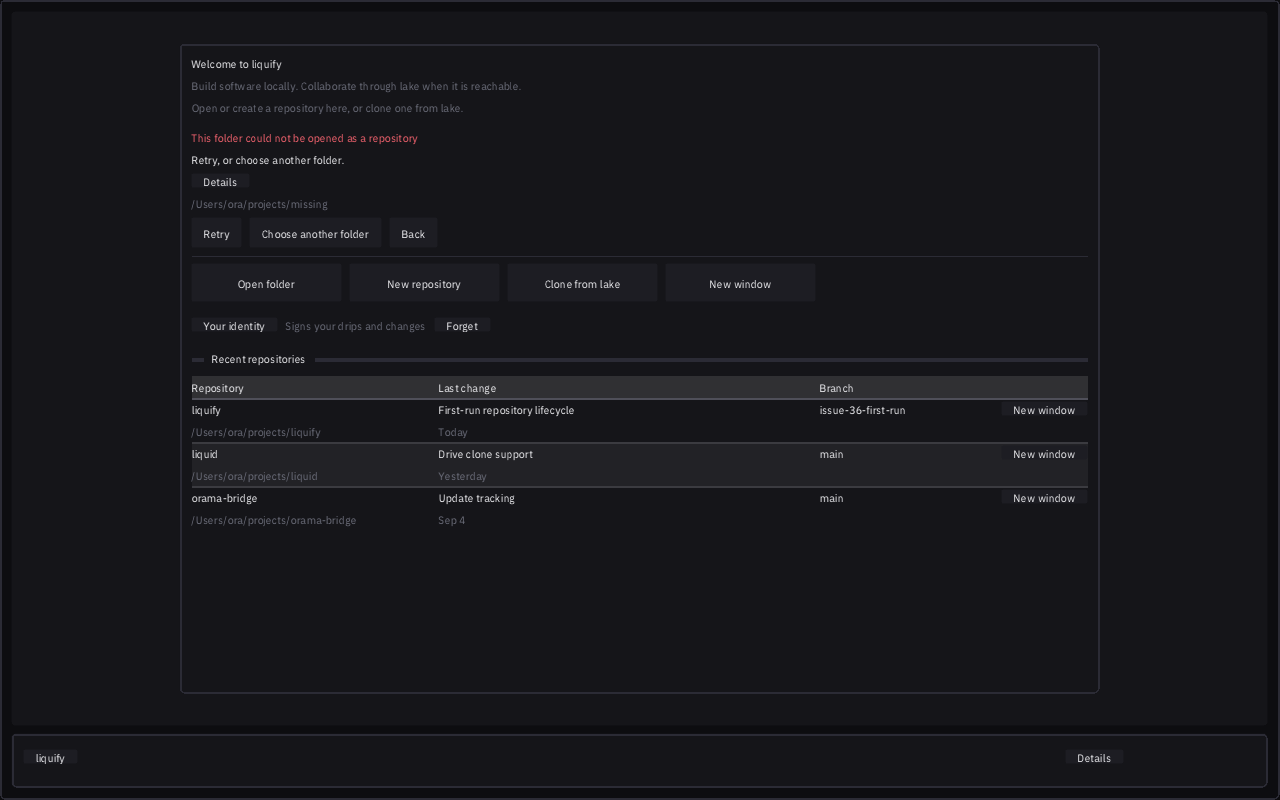
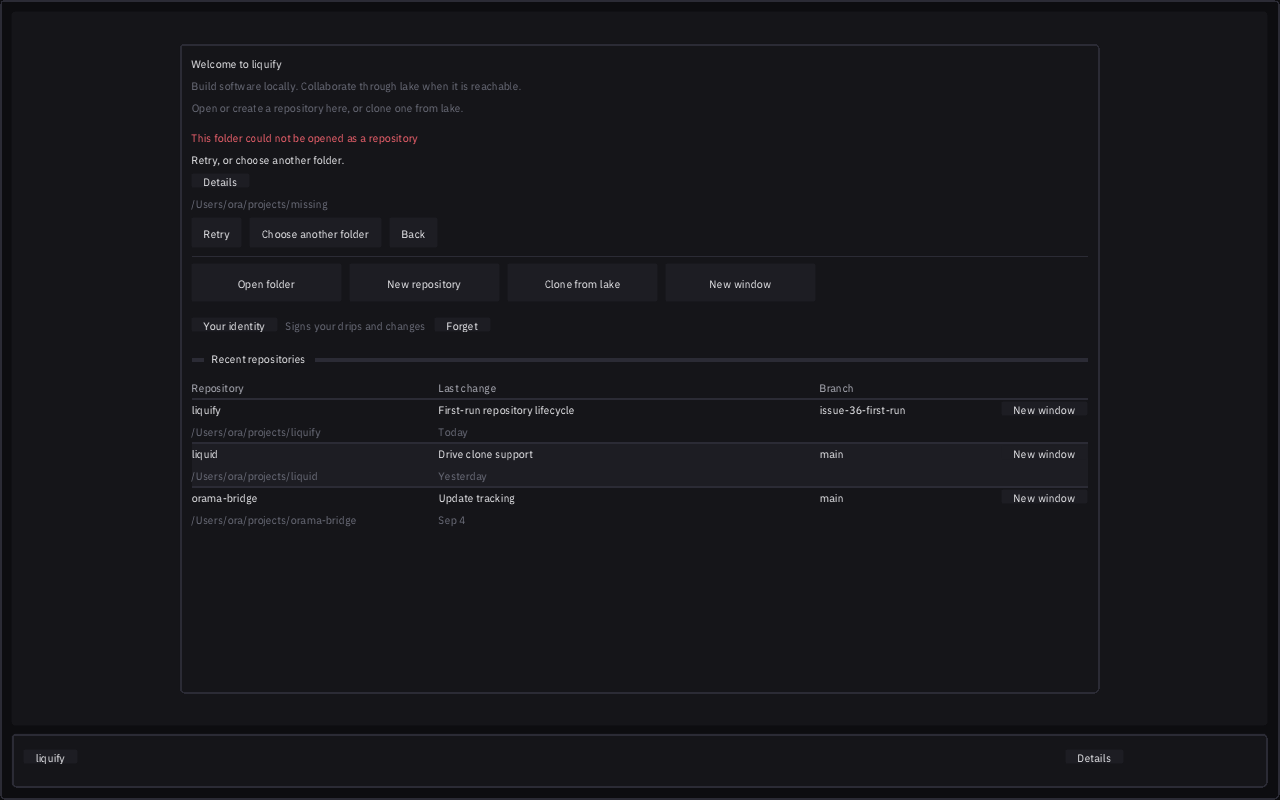
Table headers in lake's style: muted ink on the surface role, with a hairline
The command palette and Recent repositories headers drew as a near-black bar with dark labels.
They now use the surface role behind muted-ink labels with a hairline under the row, and rows
alternate between transparent and the layer role. A screenshot property test fails if a header's
rendered label contrast falls below WCAG AA in either theme.

Changed region(s): [[0.125, 0.4688, 0.875, 0.5]]

diff --git a/src/app.cpp b/src/app.cpp
@@ -815,6 +815,24 @@ auto push_outcome_name(liquid::sync_ref_outcome_kind outcome)
   return "unknown";
 }
 
+// A table's header row in lake's style: muted ink on the surface role, with a hairline under
+// it. Records the row's rectangle for the contrast property test.
+void table_headers(const design::Palette &palette, UiFrameLayout &layout,
+                   std::string_view id) {
+  ImGui::PushStyleColor(ImGuiCol_Text, imgui_color(palette.text_secondary));
+  ImGui::TableHeadersRow();
+  ImGui::PopStyleColor();
+  const auto top_left = ImGui::GetItemRectMin();
+  const auto bottom = ImGui::GetItemRectMax().y;
+  auto *table = ImGui::GetCurrentTable();
+  const auto left = table != nullptr ? table->OuterRect.Min.x : top_left.x;
+  const auto right = table != nullptr ? table->OuterRect.Max.x : ImGui::GetItemRectMax().x;
+  ImGui::GetWindowDrawList()->AddLine(ImVec2(left, bottom), ImVec2(right, bottom),
+                                      packed_color(palette.border_subtle), 1.0F);
+  layout.controls[std::string(id) + "/header"] =
+      InputRectangle{left, top_left.y, right - left, bottom - top_left.y};
+}
+
 auto graph_query_failure(const EditorGraphSnapshot &snapshot) -> liquid::error {
   return snapshot.query_failure.value_or(
       liquid::error{liquid::errc::internal, snapshot.query_error, ""});
@@ -2330,6 +2348,13 @@ void App::apply_theme() {
   colors[ImGuiCol_ChildBg] = imgui_color(palette.surface);
   colors[ImGuiCol_PopupBg] = imgui_color(palette.overlay);
   colors[ImGuiCol_Border] = imgui_color(palette.border_subtle);
+  // Compact tables with sticky headers, as lake's kit draws them: the header sits on the
+  // surface role, its labels in the muted ink role, with a hairline under it (liquify#109).
+  colors[ImGuiCol_TableHeaderBg] = imgui_color(palette.surface);
+  colors[ImGuiCol_TableBorderStrong] = imgui_color(palette.border_subtle);
+  colors[ImGuiCol_TableBorderLight] = imgui_color(palette.border_subtle);
+  colors[ImGuiCol_TableRowBg] = ImVec4(0.0F, 0.0F, 0.0F, 0.0F);
+  colors[ImGuiCol_TableRowBgAlt] = imgui_color(palette.layer);
   colors[ImGuiCol_BorderShadow] = {0.0F, 0.0F, 0.0F, 0.0F};
   colors[ImGuiCol_FrameBg] = imgui_color(palette.layer);
   colors[ImGuiCol_FrameBgHovered] = imgui_color(palette.layer_hover);
@@ -4843,7 +4868,8 @@ void App::draw_command_palette() {
                             0.60F);
     ImGui::TableSetupColumn("Group", ImGuiTableColumnFlags_WidthStretch, 0.20F);
     ImGui::TableSetupColumn("Key", ImGuiTableColumnFlags_WidthStretch, 0.20F);
-    ImGui::TableHeadersRow();
+    table_headers(effective_palette(applied_dark_theme_, applied_high_contrast_),
+                  frame_layout_, "palette");
     for (const auto &match : matches) {
       const auto *definition = commands_->find(match.name);
       if (definition == nullptr) {
@@ -7483,7 +7509,8 @@ void App::draw_welcome() {
                             2.2F);
     ImGui::TableSetupColumn("Branch", ImGuiTableColumnFlags_WidthStretch, 1.0F);
     ImGui::TableSetupColumn("", ImGuiTableColumnFlags_WidthFixed, 86.0F);
-    ImGui::TableHeadersRow();
+    table_headers(effective_palette(applied_dark_theme_, applied_high_contrast_),
+                  frame_layout_, "recent-repositories");
     for (const auto &recent : first_run_.recent()) {
       ImGui::PushID(recent.path.string().c_str());
       ImGui::TableNextRow();

diff --git a/tests/test_screenshot.cpp b/tests/test_screenshot.cpp
@@ -1,4 +1,8 @@
+#include <algorithm>
+#include <array>
+#include <cmath>
 #include <filesystem>
+#include <map>
 #include <string>
 #include <string_view>
 #include <utility>
@@ -160,6 +164,73 @@ TEST(Screenshot, AccessibilityStateShowsHighContrastFocusInBothThemes) {
                                           {15, 98, 254, 255}, 1, 1'000));
   EXPECT_TRUE(test::region_contains_color(dark, {320, 100, 950, 660},
                                           {107, 152, 255, 255}, 1, 1'000));
+}
+
+} // namespace
+} // namespace liquify
+
+namespace liquify {
+namespace {
+
+auto relative_luminance(std::uint8_t r, std::uint8_t g, std::uint8_t b) -> double {
+  const auto channel = [](std::uint8_t value) {
+    const auto c = value / 255.0;
+    return c <= 0.03928 ? c / 12.92 : std::pow((c + 0.055) / 1.055, 2.4);
+  };
+  return 0.2126 * channel(r) + 0.7152 * channel(g) + 0.0722 * channel(b);
+}
+
+auto contrast(double a, double b) -> double {
+  return (std::max(a, b) + 0.05) / (std::min(a, b) + 0.05);
+}
+
+// The header row's background is its most common colour; its ink is the pixel that differs from
+// it most. Rendered labels must read at WCAG AA (4.5:1) against the header (liquify#109).
+auto header_contrast(const ScreenshotImage &image, const InputRectangle &rect) -> double {
+  auto counts = std::map<std::uint32_t, int>{};
+  const auto x0 = static_cast<int>(std::max(rect.x, 0.0F));
+  const auto y0 = static_cast<int>(std::max(rect.y, 0.0F));
+  const auto x1 = std::min(static_cast<int>(rect.x + rect.width), static_cast<int>(image.width));
+  const auto y1 = std::min(static_cast<int>(rect.y + rect.height), static_cast<int>(image.height));
+  const auto pixel = [&](int x, int y) {
+    const auto *p = &image.rgba[(static_cast<std::size_t>(y) * image.width + x) * 4];
+    return std::array<std::uint8_t, 3>{p[0], p[1], p[2]};
+  };
+  for (int y = y0; y < y1 - 1; ++y) {
+    for (int x = x0; x < x1; ++x) {
+      const auto [r, g, b] = pixel(x, y);
+      ++counts[(static_cast<std::uint32_t>(r) << 16) | (g << 8) | b];
+    }
+  }
+  if (counts.empty()) {
+    return 0.0;
+  }
+  const auto background = std::ranges::max_element(counts, {}, [](const auto &entry) {
+                            return entry.second;
+                          })->first;
+  const auto background_luminance =
+      relative_luminance(background >> 16, (background >> 8) & 0xff, background & 0xff);
+  auto best = 1.0;
+  for (int y = y0; y < y1 - 1; ++y) {
+    for (int x = x0; x < x1; ++x) {
+      const auto [r, g, b] = pixel(x, y);
+      best = std::max(best, contrast(relative_luminance(r, g, b), background_luminance));
+    }
+  }
+  return best;
+}
+
+TEST(Screenshot, TableHeadersReadAtAAContrastInBothThemes) {
+  for (const auto &[state, control] :
+       {std::pair{"command-palette-light", "palette/header"},
+        std::pair{"command-palette-dark", "palette/header"},
+        std::pair{"welcome-light", "recent-repositories/header"},
+        std::pair{"welcome-dark", "recent-repositories/header"}}) {
+    const auto rendered = render_diagnostics(state);
+    ASSERT_TRUE(rendered.layout.controls.contains(control)) << state;
+    const auto ratio = header_contrast(rendered.image, rendered.layout.controls.at(control));
+    EXPECT_GE(ratio, 4.5) << state << " " << control;
+  }
 }
 
 } // namespace

diff --git a/tests/native_acceptance.cpp b/tests/native_acceptance.cpp
@@ -902,6 +902,23 @@ void NativeAcceptance::set_up_build(const std::filesystem::path &output) {
   capture_themes(app, output, "set-up-build-done");
 }
 
+// The command palette and the front door's Recent repositories, whose headers liquify#109
+// fixed, in the real window and both themes.
+void NativeAcceptance::table_headers(App &app, const std::filesystem::path &output) {
+  open_file(app);
+  key(app, "p", true, true);
+  require(popup("Command palette"), "palette opened");
+  require(app.frame_layout().controls.contains("palette/header"),
+          "#109: the palette draws its header row");
+  capture_themes(app, output, "palette-header");
+  key(app, "Escape");
+  app.first_run_.return_to_welcome();
+  pulse(app);
+  require(app.frame_layout().controls.contains("recent-repositories/header"),
+          "#109: the front door draws Recent repositories with its header row");
+  capture_themes(app, output, "recent-header");
+}
+
 void NativeAcceptance::wait_for_repository_operation(App &app) {
   const auto deadline =
       std::chrono::steady_clock::now() + std::chrono::seconds(60);
@@ -1080,6 +1097,8 @@ int NativeAcceptance::run(std::string_view scenario,
     tabs(app);
   } else if (scenario == "build") {
     build(app, output);
+  } else if (scenario == "table-headers") {
+    table_headers(app, output);
   } else if (scenario == "cut") {
     cut(app, output);
   } else if (scenario == "set-lake-push") {

diff --git a/tests/native_acceptance.hpp b/tests/native_acceptance.hpp
@@ -47,6 +47,7 @@ private:
   static void opened_clone_push(const std::filesystem::path &output);
   static void request_review(const std::filesystem::path &output);
   static void set_up_build(const std::filesystem::path &output);
+  static void table_headers(App &app, const std::filesystem::path &output);
   static void front_door(App &app, const std::filesystem::path &output);
   static void fill_clone(App &app, const std::string &remote,
                          const std::string &folder);

diff --git a/docs/ui/native-acceptance.md b/docs/ui/native-acceptance.md
@@ -31,6 +31,7 @@ controls, editor bounds and source ink. The driver does not add fixed sample rec
 | `request-review` | A repository with no lake shows Set lake in Review; a folder cloned from a test lake shows the teaching empty state with Request review; type, save, cut, push, click Request review, type reviewers, submit; require the review opened and the test lake holding it for the current change with those reviewers; save light and dark | Passes ([review](../editor/review.md)) |
 | `front-door-actions` | No repository; require Open folder, New repository, Clone from lake, New window and Your identity; open and cancel the clone dialog; read Your identity; New repository, type a folder, Create repository; require it open and readable by libliquid; save light and dark | Passes ([first run](first-run.md)) |
 | `set-up-build` | A CMake repository with no recorded build: F7, open Build from the status bar, Set up build, require the CMake proposal, Record and build; require the next F7 to find the recorded build; save light and dark | Not yet run (tests run at release) |
+| `table-headers` | Open the palette and return to the front door with a recent repository; require each header row; save light and dark | Not yet run (tests run at release) |
 | `front-door-clone-push` | Clone from the front door, type, save, cut, F9 | Disabled, liquify #97 (liquid#526): the first save into the just-cloned store usually loses an index run, and now and then does not, so neither result is stable. Run it by hand with `build/tests/liquify-native-acceptance front-door-clone-push <dir>` |
 | `front-door-clone-failures` | No repository; click Clone from lake and its Clone repository button against a loopback responder (401, 403, 404, 503, 400, `https` to a plain socket) and a closed port; require each failure's kind, phase, sentence and Details; save light and dark framebuffers | Passes ([errors.md](errors.md)) |
 

diff --git a/docs/ui/design-system.md b/docs/ui/design-system.md
@@ -47,3 +47,17 @@ cmake --build build --target liquify-token-gate
 
 CTest runs the same gate as `liquify-token-gate`. Build and deployment do not generate tokens;
 Node.js participates only in configure-time test availability and the explicit gate.
+
+## Table headers
+
+Tables (the command palette's results, the front door's Recent repositories) use lake's compact
+table header: the `surface` role behind it, labels in the `text_secondary` (muted ink) role, and a
+`border_subtle` hairline under the row (`table_headers` in `src/app.cpp`; `TableHeaderBg`,
+`TableBorderStrong`, `TableBorderLight` in `App::apply_theme`). Rows alternate between transparent
+and the `layer` role. ImGui's default header, a near-black bar with dark labels, is never shown
+(liquify#109).
+
+`Screenshot.TableHeadersReadAtAAContrastInBothThemes` renders the palette and the front door in
+light and dark, takes each header row's most common colour as its background and the pixel that
+differs most as its ink, and fails below 4.5:1. The native scenario `table-headers` captures both
+tables in the real window.
